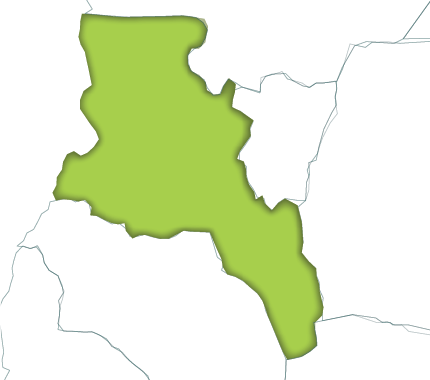
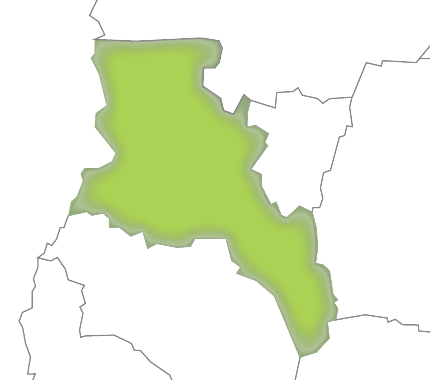
imagenes de provincias renovadas

diff --git a/js/fdl.js b/js/fdl.js
@@ -169,7 +169,7 @@
 			tl.staggerTo([_this.mapContainer, _this.callToAction],1,{autoAlpha:1},0.5);
 			tl.staggerTo('.provincia',0.5,{autoAlpha:0.5,fill:'#fff',ease:RoughEase.ease},0.05);
 			tl.from($('.logo','#callToAction'),1.5,{autoAlpha:0, rotationX: -180,ease: Elastic.easeOut},"-=1");
-			tl.set('.provincia',{transformOrigin:"240px 973px",fill: "#fff"});
+			tl.set('.provincia',{fill: "#fff"});//transformOrigin:"240px 973px",
 
 			// $.each($('.provincia'), function(i,e){
 			// 	$(e).data('respondida',false);
